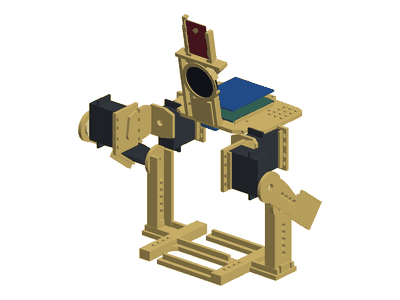
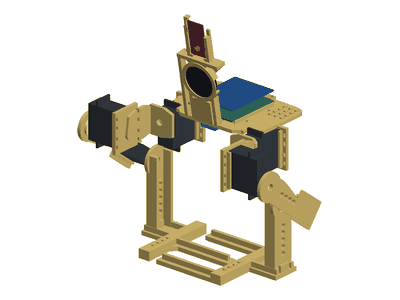
site: follow the ESP-EYE default after merging main
After the merge the biped card's picture was older than the geometry and
its test said so. python -m microduck.buildpics redraws it with the
ESP-EYE torso and records the new inputs.

The card gave the biped's speed as the best of the parameter sweep in
reports/sim.json, 33.6 mm/s. The recipe verdict and the biped page quote
the walk of the motion study, 44.4 mm/s, so the card now reads that
figure from reports/motion.json and a test ties it to the verdict.

tests/test_tone.py looked two recipes up by a query that named the
ESP32-CAM as the default camera; it now uses the configured camera.

The two Raspberry Pi board photographs showed the maker's logo in the
middle of the board, where no crop removes it and leaves a board. They
are replaced by drawings from the outline and hole pattern in
config/hardware.json: 15 photographs and 28 drawings now.

The robot's own control server serves a fixed list of files; tour.js is
added to it. The tour's data is not served there, so tour.js now says
nothing when its steps cannot be loaded, and takes the page with the
row of builds as the landing page rather than the address "/".

With main's new torsos the printable files are 22.1 MB and everything
else is 8.5 MB, 30.6 MB together: over the 30 MB that the size test
allowed for the whole checkout, although each part is inside its own
budget (24 MB and 8.8 MB). The whole-checkout limit becomes 32 MB.

diff --git a/site/credits.html b/site/credits.html
@@ -51,8 +51,8 @@
           <tr><td><img src="./components/hbridge.png" alt="TB6612FNG motor driver board" width="96" height="72" loading="lazy"></td><td>TB6612FNG motor driver board</td><td>Photograph; cropped, resized and reduced to a small palette; otherwise unchanged</td><td>Krishnav25</td><td><a href="http://creativecommons.org/publicdomain/zero/1.0/deed.en" rel="noopener noreferrer">CC0</a></td><td><a href="https://commons.wikimedia.org/wiki/File:TB6612FNG.jpg" rel="noopener noreferrer">File:TB6612FNG.jpg</a></td></tr>
           <tr><td><img src="./components/screws.png" alt="M3 screws" width="96" height="72" loading="lazy"></td><td>M3 screws</td><td>Photograph; cropped, resized and reduced to a small palette; otherwise unchanged</td><td>oomlout</td><td><a href="https://creativecommons.org/licenses/by-sa/2.0" rel="noopener noreferrer">CC BY-SA 2.0</a></td><td><a href="https://commons.wikimedia.org/wiki/File:M3_x_30_mm_Metal_Screw.jpg" rel="noopener noreferrer">File:M3 x 30 mm Metal Screw.jpg</a></td></tr>
           <tr><td><img src="./components/unoq.png" alt="Arduino UNO Q" width="96" height="72" loading="lazy"></td><td>Arduino UNO Q</td><td>Drawing, not a photograph</td><td>Botbuilder</td><td>MIT, with the repository</td><td>drawing by python -m microduck.componentpics from config/hardware.json (board)</td></tr>
-          <tr><td><img src="./components/pi_zero_2w.png" alt="Raspberry Pi Zero 2 W" width="96" height="72" loading="lazy"></td><td>Raspberry Pi Zero 2 W</td><td>Photograph; cropped, resized and reduced to a small palette; otherwise unchanged</td><td>Laserlicht</td><td><a href="https://creativecommons.org/licenses/by-sa/4.0" rel="noopener noreferrer">CC BY-SA 4.0</a></td><td><a href="https://commons.wikimedia.org/wiki/File:Raspberry_Pi_Zero_2_W.jpg" rel="noopener noreferrer">File:Raspberry Pi Zero 2 W.jpg</a></td></tr>
-          <tr><td><img src="./components/pi_full.png" alt="Raspberry Pi, full size" width="96" height="72" loading="lazy"></td><td>Raspberry Pi, full size</td><td>Photograph; cropped, resized and reduced to a small palette; otherwise unchanged</td><td>Laserlicht</td><td><a href="https://creativecommons.org/licenses/by-sa/4.0" rel="noopener noreferrer">CC BY-SA 4.0</a></td><td><a href="https://commons.wikimedia.org/wiki/File:Raspberry_Pi_4_Model_B_-_Top.jpg" rel="noopener noreferrer">File:Raspberry Pi 4 Model B - Top.jpg</a></td></tr>
+          <tr><td><img src="./components/pi_zero_2w.png" alt="Raspberry Pi Zero 2 W" width="96" height="72" loading="lazy"></td><td>Raspberry Pi Zero 2 W</td><td>Drawing, not a photograph</td><td>Botbuilder</td><td>MIT, with the repository</td><td>drawing by python -m microduck.componentpics from config/hardware.json (controllers.pi_zero_2w)</td></tr>
+          <tr><td><img src="./components/pi_full.png" alt="Raspberry Pi, full size" width="96" height="72" loading="lazy"></td><td>Raspberry Pi, full size</td><td>Drawing, not a photograph</td><td>Botbuilder</td><td>MIT, with the repository</td><td>drawing by python -m microduck.componentpics from config/hardware.json (controllers.pi)</td></tr>
           <tr><td><img src="./components/buildhat.png" alt="Raspberry Pi Build HAT" width="96" height="72" loading="lazy"></td><td>Raspberry Pi Build HAT</td><td>Drawing, not a photograph</td><td>Botbuilder</td><td>MIT, with the repository</td><td>drawing by python -m microduck.componentpics from walkers/config/components.json (build_hat)</td></tr>
           <tr><td><img src="./components/hub51515.png" alt="LEGO Robot Inventor 51515 hub" width="96" height="72" loading="lazy"></td><td>LEGO Robot Inventor 51515 hub</td><td>Drawing, not a photograph</td><td>Botbuilder</td><td>MIT, with the repository</td><td>drawing by python -m microduck.componentpics from walkers/config/components.json (hub51515)</td></tr>
           <tr><td><img src="./components/ev3_brick.png" alt="LEGO EV3 brick" width="96" height="72" loading="lazy"></td><td>LEGO EV3 brick</td><td>Photograph; cropped, resized and reduced to a small palette; otherwise unchanged</td><td>Klaus-Dieter Keller</td><td><a href="https://creativecommons.org/licenses/by-sa/3.0" rel="noopener noreferrer">CC BY-SA 3.0</a></td><td><a href="https://commons.wikimedia.org/wiki/File:Lego_Mindstorms_EV3_brick.jpg" rel="noopener noreferrer">File:Lego Mindstorms EV3 brick.jpg</a></td></tr>

diff --git a/site/tour.js b/site/tour.js
@@ -288,6 +288,12 @@ export async function startTour(index) {
   return running;
 }
 
+// Start it, and say nothing if its steps cannot be loaded: the page served by
+// the robot's own server carries this script but not the site's data.
+function quietly(index) {
+  return startTour(index).catch(() => {});
+}
+
 // The small card a new visitor sees: start the tour or send it away.
 function offer() {
   const card = el("div", undefined, "tour-offer");
@@ -299,7 +305,7 @@ function offer() {
   no.type = "button";
   start.addEventListener("click", () => {
     card.remove();
-    startTour(0);
+    quietly(0);
   });
   no.addEventListener("click", () => {
     write("localStorage", SEEN_KEY, "1");
@@ -313,6 +319,8 @@ function offer() {
 
 function begin() {
   const params = new URLSearchParams(window.location.search);
+  // The landing page is the one with the row of finished builds, whatever its address.
+  const landing = pageName() === "index.html" && document.getElementById("builds") !== null;
   const flag = read("localStorage", SWITCH_KEY);
   const seen = read("localStorage", SEEN_KEY);
   const saved = read("sessionStorage", SESSION_KEY);
@@ -321,20 +329,20 @@ function begin() {
     session: saved.value === null ? null : Number(saved.value),
     seen: seen.ok ? seen.value === "1" : null,
     off: flag.value === "off",
-    landing: pageName() === "index.html",
+    landing,
     count: Number.MAX_SAFE_INTEGER,
   });
   // "Take the tour" in the footer starts it here when this is the landing page.
   for (const link of document.querySelectorAll("a[data-tour]")) {
     link.addEventListener("click", (event) => {
-      if (pageName() !== "index.html") return;
+      if (!landing) return;
       event.preventDefault();
-      startTour(0);
+      quietly(0);
     });
   }
   if (decision.action === "run") {
     // After the page's own script has drawn what the steps point at.
-    const go = () => startTour(decision.index).catch(() => {});
+    const go = () => quietly(decision.index);
     if (document.readyState === "complete") window.setTimeout(go, 0);
     else window.addEventListener("load", () => window.setTimeout(go, 0));
   } else if (decision.action === "offer") {

diff --git a/microduck/componentpics.py b/microduck/componentpics.py
@@ -142,6 +142,35 @@ def draw_unoq(d):
     return items, f"{length:g} x {width:g} mm", "config/hardware.json board"
 
 
+def _pi_board(length, width, holes, tall):
+    """A Raspberry Pi board as its outline, its four mounting holes and its 40-pin header."""
+    items = _board(length, width, "board")
+    x0 = -length / 2.0 + 3.5                                            # the holes start 3.5 mm in from one short edge
+    for x in (x0, x0 + holes[0]):
+        for y in (-holes[1] / 2.0, holes[1] / 2.0):
+            items.append(cylinder("z", (x, y, 1.7), 2.6, 0.4, "gold", 24))
+    items.append(box((x0 + 3.6, width / 2.0 - 6.0, 1.6), (x0 + 54.4, width / 2.0 - 1.0, 1.6 + 8.5), "black"))   # 2 x 20 pins at 2.54 mm
+    items.append(box((-7.0, -7.0, 1.6), (7.0, 7.0, 3.2), "steel"))                                      # the processor
+    for i in range(tall):                                               # the tall sockets of a full-size board, at the far short edge
+        y = -width / 2.0 + 3.0 + i * 18.0
+        items.append(box((length / 2.0 - 17.0, y, 1.6), (length / 2.0 + 2.0, y + 14.5, 15.0), "steel"))
+    return items
+
+
+def draw_pi_zero_2w(d):
+    p = d.hardware["controllers"]["pi_zero_2w"]["published"]
+    return (_pi_board(p["length_mm"], p["width_mm"], p["hole_pattern_mm"], 0),
+            f"{p['length_mm']:g} x {p['width_mm']:g} mm, holes {p['hole_pattern_mm'][0]:g} x {p['hole_pattern_mm'][1]:g} mm",
+            "config/hardware.json controllers.pi_zero_2w")
+
+
+def draw_pi_full(d):
+    a = d.hardware["controllers"]["pi"]["assumed"]
+    length, width, holes = _value(a["length_mm"]), _value(a["width_mm"]), _value(a["hole_pattern_mm"])
+    return (_pi_board(length, width, holes, 3), f"{length:g} x {width:g} mm, holes {holes[0]:g} x {holes[1]:g} mm",
+            "config/hardware.json controllers.pi")
+
+
 def draw_braccio_shield(d):
     s = d.hardware["shield"]["published"]
     length, width = s["length_mm"], s["width_mm"]
@@ -377,7 +406,7 @@ def draw_technic_beam(d):
 
 
 DRAWINGS = {
-    "unoq": draw_unoq, "braccio_shield": draw_braccio_shield, "sr431": draw_sr431, "sr311": draw_sr311, "pca9685": draw_pca9685,
+    "unoq": draw_unoq, "pi_zero_2w": draw_pi_zero_2w, "pi_full": draw_pi_full, "braccio_shield": draw_braccio_shield, "sr431": draw_sr431, "sr311": draw_sr311, "pca9685": draw_pca9685,
     "buildhat": draw_buildhat, "hub51515": draw_hub51515, "angular_motor": draw_angular_motor, "m5_360": draw_m5_360,
     "tt_motor": draw_tt_motor, "pixy2": draw_pixy2, "pixy_pantilt": draw_pixy_pantilt, "esp_eye": draw_esp_eye,
     "esp32_s3_eye": draw_esp32_s3_eye, "xiao_sense": draw_xiao_sense, "round_display": draw_round_display, "m5core": draw_m5core,

diff --git a/tests/test_tone.py b/tests/test_tone.py
@@ -82,9 +82,9 @@ def test_no_mark_without_a_record_and_a_mark_with_one(data, recipes):
     assert "if (recipe.validated) {" in export and "item.validated ? `Printed and checked on" in export
 
 
-def test_safety_instructions_and_working_instructions_stay(recipes):
-    by_query = {rec["query"]: rec for rec in recipes}
-    biped = by_query["controller=unoq&locomotion=biped&drive=braccio_shield&camera=esp32cam&face=eyes_above&feet=comb&head=fixed&lego=on"]
+def test_safety_instructions_and_working_instructions_stay(data, recipes):
+    by_query = {rec["query"].replace(f"camera={data['compat']['defaults']['camera']}&", "camera=DEFAULT&"): rec for rec in recipes}
+    biped = by_query["controller=unoq&locomotion=biped&drive=braccio_shield&camera=DEFAULT&face=eyes_above&feet=comb&head=fixed&lego=on"]
     power = " ".join(biped["power"])
     assert "Disconnect servo power before the first flash" in power
     assert "size the supply and wiring for the stall figure, or fuse it" in power
@@ -96,7 +96,7 @@ def test_safety_instructions_and_working_instructions_stay(recipes):
     assert biped["print"]["files"][0]["fit"]
     # "measure" where a part will not fit otherwise, and "Not written" for software that does not exist.
     assert any("measure" in part["note"].lower() for part in biped["parts"])
-    pan = by_query["controller=unoq&locomotion=biped&drive=braccio_shield&camera=esp32cam&face=none&feet=comb&head=m5_360&lego=on"]
+    pan = by_query["controller=unoq&locomotion=biped&drive=braccio_shield&camera=DEFAULT&face=none&feet=comb&head=m5_360&lego=on"]
     assert any("Measure the bracket's hole pattern" in part["note"] for part in pan["parts"])
     assert any("Measure the adapter's hole pattern" in text for text in pan["wiring"])
     assert any(text.startswith("Head: not written") for text in pan["firmware"])

diff --git a/microduck/recipe.py b/microduck/recipe.py
@@ -476,7 +476,14 @@ def build_figures(data: dict, sel: dict, root: Path = ROOT) -> dict:
         assembly = _load(root / "reports" / "assembly.json")
         sim = _load(root / "reports" / "sim.json")
         out["mass_g"] = assembly["variants"][assembly["selected"]]["mass"]["total_g"]
-        speed = (sim.get("gait_best") or sim.get("gait_default") or {}).get("speed_mm_s")
+        # The walk of the motion study, the figure the simulation verdict quotes; without that
+        # report, the same gait in the plain simulation.
+        speed = (sim.get("gait_default") or {}).get("speed_mm_s")
+        study = root / "reports" / "motion.json"
+        if study.is_file():
+            walks = _load(study).get("presets", {})
+            feet = assembly.get("feet_preset") or data["compat"]["defaults"]["feet"]
+            speed = walks.get(feet, {}).get("walk", {}).get("nominal", {}).get("speed_mm_s", speed)
         if isinstance(speed, (int, float)):
             out["speed_mm_s"] = speed
     return out

diff --git a/tests/test_builds.py b/tests/test_builds.py
@@ -124,7 +124,10 @@ def test_every_build_has_figures_from_the_reports(data, sim_report, selected):
         assert 100 < figures["mass_g"] < 2000 and 5 < figures["speed_mm_s"] < 2000
         sel = recipe.build_selection(data, entry)
         if sel["locomotion"] == "biped":
-            assert figures == {"mass_g": selected["mass"]["total_g"], "speed_mm_s": sim_report["gait_best"]["speed_mm_s"]}
+            study = json.loads((ROOT / "reports" / "motion.json").read_text(encoding="utf-8"))
+            walk = study["presets"][sel["feet"]]["walk"]["nominal"]["speed_mm_s"]
+            assert figures == {"mass_g": selected["mass"]["total_g"], "speed_mm_s": walk}
+            assert f"walks at {walk:g} mm/s" in sim_report["verdict"]["gait"], "the figure the verdict quotes"
         else:
             mine = recipe.summary_entry(sel, ROOT)
             assert mine in summary and mine["status"] == "analysed in simulation" and figures["mass_g"] == mine["mass_g"]

diff --git a/tests/test_repo.py b/tests/test_repo.py
@@ -74,9 +74,10 @@ def test_repository_stays_small():
     for path in rest:
         assert path.stat().st_size < 1_000_000, path.name
     meshes = [path for path in tracked() if under_stl(path)]
-    # About 20 MB of printable files and their pictures; the whole checkout stays under 30 MB.
+    # About 22 MB of printable files and their pictures, and 8.5 MB of everything else: the whole
+    # checkout stays under 32 MB, a little under the two budgets added together.
     assert sum(path.stat().st_size for path in meshes) < 24_000_000
-    assert sum(path.stat().st_size for path in tracked()) < 30_000_000
+    assert sum(path.stat().st_size for path in tracked()) < 32_000_000
     for path in meshes:
         assert path.stat().st_size < 3_000_000, path.name
 

diff --git a/app_lab/microduck_agent/control_server.py b/app_lab/microduck_agent/control_server.py
@@ -36,7 +36,7 @@ from microduck import motions, player, webcontrol  # noqa: E402
 
 SITE = ROOT / "site"
 PAGES = {"/": "control.html", "/control.html": "control.html", "/control.js": "control.js",
-         "/flash.html": "flash.html", "/flash.js": "flash.js", "/style.css": "style.css"}
+         "/flash.html": "flash.html", "/flash.js": "flash.js", "/style.css": "style.css", "/tour.js": "tour.js"}
 TYPES = {".html": "text/html; charset=utf-8", ".js": "text/javascript; charset=utf-8", ".css": "text/css; charset=utf-8",
          ".json": "application/json", ".csv": "text/csv; charset=utf-8", ".woff2": "font/woff2", ".txt": "text/plain; charset=utf-8"}
 
